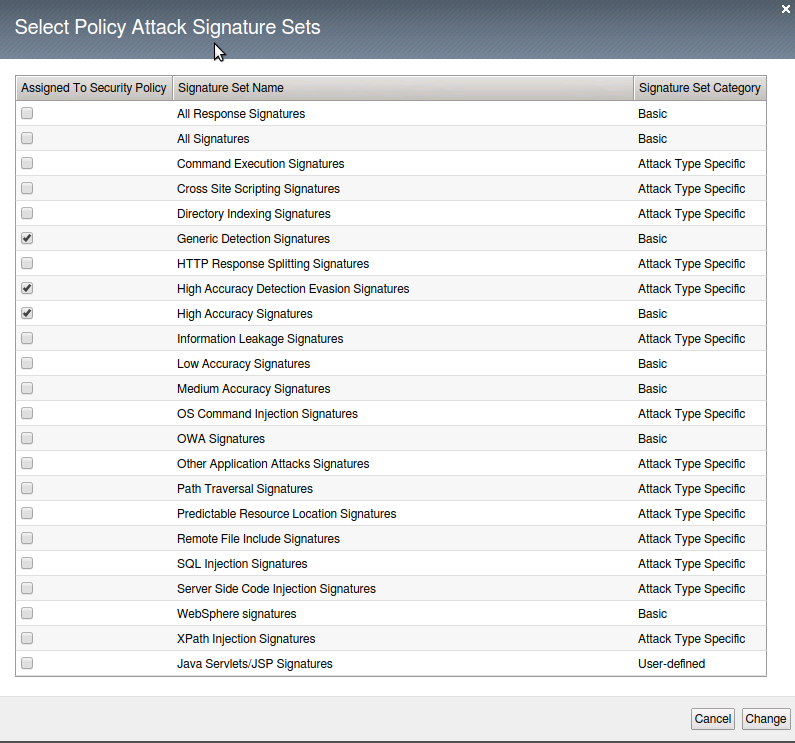
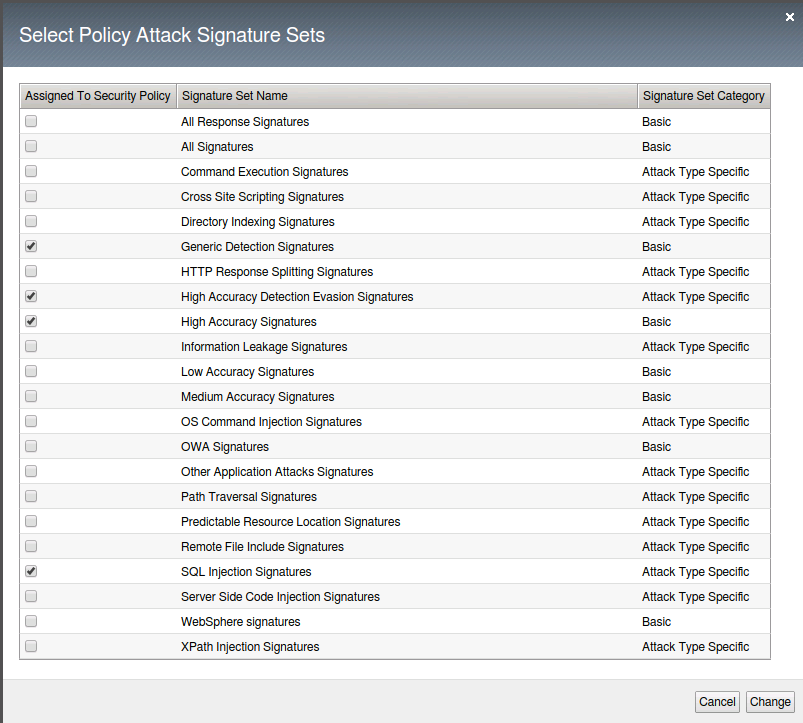
Edits

Changed region(s): [[0.0, 0.0, 1.0, 1.0]]

diff --git a/module3/lab1/lab1.rst b/module3/lab1/lab1.rst
@@ -6,30 +6,67 @@ Objective
 
 You will explore the blocking policy and settings.  The blocking policy used for this lab will focus on negative security using signatures.
 
-Task 1 - Exploring policy
+Task 1 - Creating Blocking policy
 ~~~~~~~~~~~~~~~~~~~~~~~~~~~~~~~~~~~~~~~~~~~~~~~~~~~~~
-1.  Within the BIG IP go to Security --> Application Security --> Policy Building --> Learning and Blocking Settings
+1.  Login to the BIG-IP device by clicking on the bookmark in Chrome.
 
-2.  Click on Blocking Settings...
+.. image:: /images/image13_3_1.png
+
+2.  Login to the BIG-IP with the credentials supplied
+
+3.  Go to Security --> Application Security --> Security Policies --> Policies List
+
+3.  Click on Create Policy
+
+.. image:: /images/image14_3_1.png
+
+4.  At the far right change the setting to Advanced
+
+.. image:: /images/image15_3_1.png
+
+Fill out the following:
+  Policy name:  Blocking_Policy
+  Description: leave blank
+  Policy type:  Security
+  Policy Template:  Rapid Deployment Policy
+  Virtual Server:  webgoat.f5demo.com_https_vs (HTTPS)
+  Learning Mode:  Manual
+  Enforcement Mode:  Blocking
+  Application Language:  Unicode (utf-8)
+  Server Technologies: (leave blank)
+  Signature Staging:  Disable  (in a production environment consider leaving this set at 7 days)
+  Policy is Case Sensitive:  Disabled
+  Differentiate between HTTP/WS and HTTPS/WSS URLs:  Enabled
+Click Create Policy
+
+5.  Go to Security --> Application Security --> Policy Building --> Learning and Blocking settings
+
+6.  Make sure Blocking_Policy is selected in the Current edited security policy.
+
+7.  At the far right across from General Settings ensure Advanced is selected
+
+.. image:: /images/image16_3_1.png
+
+8.  Click on Blocking Settings
 
 .. image:: images/image1_3_1.png
 
-3.  All the blocking and learning checkboxes are unchecked.  Alarming is still turned on for some critical functions. Close the window.
+9.  Click the Block Check box at the top of to select all then click it again to clear Block from all entries.  Then click Change
 
 .. image:: images/image2_3_1.png
 
-4.  Under Policy Building Settings click on the carrot next to Attack Signatures to expand the Attack Signatures options
+10.  Under Policy Building Settings click on the carrot next to Attack Signatures to expand the Attack Signatures options
 
 .. image:: images/image3_3_1.png
 
-5.  Click on the Change button at the far right to bring up the Select Policy Attack Signature sets and choose to add SQL Injection Signatures then click Change
+11.  Click on the Change button at the far right to bring up the Select Policy Attack Signature sets and choose to add High Accuracy signature and SQL Injection Signatures then click Change
 
 .. image:: images/image9_3_1.png
 .. image:: images/image10_3_1.png
 
 .. NOTE:: For this lab Signature Staging has been disbaled.  In a production environment you should consider using staging to allow yourself mitigation time before new signatures are implemented.
 
-6.  Ensure that the blocking checkbox has been unchecked for all signatures.  You will click Save and Apply Policy at this point.
+12.  Ensure that the blocking checkbox has been unchecked for all signatures.  You will click Save and Apply Policy at this point.
 
 .. image:: images/images11_3_1.png
 
@@ -39,14 +76,16 @@ Task 1 - Exploring policy
 
 Task 2 - Tuning policy
 ~~~~~~~~~~~~~~~~~~~~~~~~~~~~~~~~~~~~~~~~~~~~~~~~~~~~~
-1.  Under the General Settings you will see various settings for Enforcement, Learning Mode and Learning Speed.  For this lab the policy has been set in to Blocking with Manual Learning and a learning speed of fast.
+1.  Go to Security --> Application Security --> Policy Building --> Learning and Blocking Settings
+
+2.  Under the General Settings you will see various settings for Enforcement, Learning Mode and Learning Speed.  For this lab the policy has been set in to Blocking with Manual Learning and a learning speed of fast.
 
 .. image:: images/image4_3_1.png
 
 .. NOTE:: Depending on the setting you choose for Learning Mode you may find additional options
 .. image:: images/image5_3_1.png
 
-2.  Under Policy Building Process you will find there are settings for Loosen Policy and Tighten Policy.
+3.  Under Policy Building Process you will find there are settings for Loosen Policy and Tighten Policy.
 
 Loosen Policy would be used when there have been changes to the application.  Policy Builder will identify legitmate traffic based on repeated behavior from a sufficient number of sources that you set.
 Tighten Policy only applies when you are using automatic learning.  The policy builder will refine the policy until the number of security policy changes has been reached.
@@ -54,7 +93,7 @@ Track Site Changes again only applies to automatic learning.  If enabled this se
 
 .. image:: images/image6_3_1.png
 
-3.  When you have made changes to this page make sure to save the policy and then Apply policy
+4.  When you have made changes to this page make sure to save the policy and then Apply policy
 
 .. image:: images/image7_3_1.png
 .. image:: images/image8_3_1.png

diff --git a/module3/lab2/lab2.rst b/module3/lab2/lab2.rst
@@ -11,27 +11,38 @@ In this exercise you will attack the vulnerable application.  Then apply the blo
 Task 1 - Exploring an attack
 ~~~~~~~~~~~~~~~~~~~~~~~~~~~~~~~~~~~~~~~~~~~~~~~~~~~~~
 
-1.  Go to Local Traffic --> Virtual Servers --> Virtual Server List
+1.  Go to Security --> Event Logs --> Logging profiles
 
-2.  Click on the asm_vs
+2.  Click Create
+
+  Profile Name: WebGoat
+  Applicattion Security: Enabled
+  Storage Destination:  Local Storage
+  Request Type: All requests
+
+.. NOTE::  Do not use All requests unless for troubleshooting purposes.  Choose Illegal requests, and requests that include staged attack signatures
+
+3.  Go to Local Traffic --> Virtual Servers --> Virtual Server List
+
+4.  Click on the webgoat.f5demo.com_https_vs
 
 .. image:: images/image1_3_2.png
 
-3.  Click on Security and Policies from the top menu
+5.  Click on Security and Policies from the top menu
 
 .. image:: images/image2_3_2.png
 
-4.  Make sure to set Application Security Policy to enabled and choose the Blocking_Policy.
+6.  Make sure to set Application Security Policy to enabled and choose the Blocking_Policy.  Then enabled Log Profile and select the WebGoat profile you created.  Move it to Selected.  Click Update.
 
 .. image:: images/image3_3_2.png
 
-5.  Within Chrome click on the three dots in the upper right and choose New Incognito window
+7.  Within Chrome click on the three dots in the upper right and choose New Incognito window
 
 .. image:: images/image4_3_2.png
 
-6.  Click on the Login Page bookmark to get to the WebGoat application
+8.  Click on the Login Page bookmark to get to the WebGoat application
 
-7.  At the username prompt try entering a sequel query for the username and the letter a for the password
+9.  At the username prompt try entering a sequel query for the username and the letter a for the password
 
 ::
 
@@ -39,36 +50,25 @@ Task 1 - Exploring an attack
 
 .. NOTE:: Did you see anything?  Why do you think you were not blocked?
 
-8.  Login with the credentials webgoat and f5DEMOs4u!
+10.  Return to the BIG-IP Go to Security --> Event Logs --> Application --> requests
 
-9.  Click on Injection Flaws from the left menu and then on SQL Injection
+11.  You will find an entry there for the login page. (We will examine this further later)
 
-10.  Within the Account Name field try the injection attack again
-::
+12.  Go to Security --> Application Security --> Policy Building --> Learning and Blocking settings
 
-    %' or 1='1
-
-.. image:: images/image5_3_2.png
-
-.. NOTE:: You will see that you are able to access the database and gather a wealth of useful information
-
-.. image:: images/image6_3_2.png
-
-11.  Return to the BIG IP go to Security --> Application Security --> Policy Building --> Learning and Blocking settings
-
-12.  Click on the carrot next to Attack Signatures and click on the Block check box at the top (this will turn on blocking for all the signatures).  Make sure to click Save and Apply Policy
+13.  Click on the carrot next to Attack Signatures and click on the Block check box at the top (this will turn on blocking for all the signatures).  Make sure to click Save and Apply Policy
 
 .. image:: images/image7_3_2.png
 
-13.  On the left menu of the BIG IP right click on Security and select "Open Link in a new Tab"
+14.  On the left menu of the BIG-IP right click on Security and select "Open Link in a new Tab"
 
-14.  Go to the new tab.  Select Event Logs --> Application --> Requests
+15.  Go to the new tab.  Select Security --> Event Logs --> Application --> Requests
 
-15.  Open a New Incognito Window in Chrome
+16.  Open a New Incognito Window in Chrome
 
-16.  Click the bookmark for Login page
+17.  Click the bookmark for Login page
 
-17.  At the username prompt try entering a sequel query for the username and the letter a for the password
+18.  At the username prompt try entering a sequel query for the username and the letter a for the password
 
 ::
 
@@ -77,11 +77,9 @@ Task 1 - Exploring an attack
 .. NOTE:: You should see that you are blocked and received a message with a support ID.
 .. image:: images/image8_3_2.png
 
-18.  Use the back button and repeat steps 8-10
-
 .. NOTE:: Did the query work?  Why not?
 
-19.  Return to the BIG IP and the Event Logs tab
+19.  Return to the BIG-IP and the Event Logs tab
 
 20.  In the upper right corner change the auto refresh to 10 seconds
 
@@ -113,7 +111,7 @@ In the upper left corner change the mode to Attack mode and then execute the att
 
 .. image:: images/image12_3_2.png
 
-4.  Return to the BIG IP and examine the Event Logs.  You will need to stop the auto refresh by clicking on the countdown
+4.  Return to the BIG-IP and examine the Event Logs.  You will need to stop the auto refresh by clicking on the countdown
 
 .. image:: images/image13_3_2.png
 

diff --git a/module4/lab1/lab1.rst b/module4/lab1/lab1.rst
@@ -6,15 +6,19 @@ Task 1 - Exploring iControl
 
 The iControl REST API available via TMOS can be directly accessed and endpoints explored.
 
-#. Open Google Chrome and navigate to the following bookmarks: BIG-IP A GUI and BIG-IP API ToC.  Accept any SSL warnings/errors that appear and ensure that you can access both login prompts.
-#. Click on the **BIG-IP API ToC** bookmark to access the API Table of Contents for BIG-IP A.  The ``/mgmt/toc`` path in the URL is available on all TMOS versions 11.6 or newer.
-#. Authenticate using the default **admin/f5DEMOs4u!** credentials.
-#. After successfully authenticating, you will be presented with a top-level list of REST resources available on the BIG-IP.  At the top of the page is a search box that can be used to search for specific REST resources.
+1. Open Google Chrome and navigate to the following bookmarks: BIG-IP A GUI and BIG-IP API ToC.  Accept any SSL warnings/errors that appear and ensure that you can access both login prompts.
+
+2. Click on the **BIG-IP API ToC** bookmark to access the API Table of Contents for BIG-IP A.  The ``/mgmt/toc`` path in the URL is available on all TMOS versions 11.6 or newer.
+
+3. Authenticate using the default **admin/f5DEMOs4u!** credentials.
+
+4. After successfully authenticating, you will be presented with a top-level list of REST resources available on the BIG-IP.  At the top of the page is a search box that can be used to search for specific REST resources.
+
 
 Task 2 - Postman
 ~~~~~~~~~~~~~~~~~~~~~~~~~~~~~~~~~~~~~~~~~~~~~~~~~~~~~
 
-We will be using Postman collections to run API calls against our BIG IP.  Postman is an API development tool we use to create and test out API calls.
+We will be using Postman collections to run API calls against our BIG-IP.  Postman is an API development tool we use to create and test out API calls.
 
 1.  For this lab you can find the postman collection located here:
 

diff --git a/module4/lab4/lab4.rst b/module4/lab4/lab4.rst
@@ -1,10 +1,14 @@
-Excercise 4.7: HTTPS iApp with Policy
+Exercise 4.7: HTTPS iApp with Policy
 ----------------------------------------
 
 Overview
 ~~~~~~~~~~~~~~~~~~~~~~~~~~~~~~~~~~~~~~~~~~~~~~~~~~~~~
 
-F5 offers a number of templated installations for various applications.  For generic web based applications you can find the https iapp template.  As an update to this template we have added security functions such as firewall and web application firewall policies that can be deployed with the application.
+F5 offers a number of templated installations for various applications.  For generic web based applications you can find the https iapp template.  As an update to this template we have added security functions such as firewall and web application firewall policies that can be deployed with the application.  In this lab we will focus on using the basic http iApp template.  If you are interested in integrating similiar templates in to your automation and orchestration strategies please follow this training with the Application Services Lab located here:
+
+::
+
+  http://clouddocs.f5.com/products/extensions/f5-appsvcs-extension/3/
 
 
 Task 1 - Deploy iApp with Security
@@ -52,7 +56,7 @@ Task 1 - Deploy iApp with Security
 
 11.  You can try surfing around the application.  Try an injection attack.
 
-12.  Return to the BIG IP.  Go to Security --> Applicaiton Security --> Policy Building --> Traffic Learning
+12.  Return to the BIG-IP.  Go to Security --> Applicaiton Security --> Policy Building --> Traffic Learning
 
 Do you see learning suggestions?
 

diff --git a/module3/lab3/lab3.rst b/module3/lab3/lab3.rst
@@ -48,7 +48,7 @@ You should have received a reponse page that you customized.  Make note of the S
 Task 3 - Event logs
 -----------------------
 
-1.  On the BIG IP return to the Security --> Event Log --> Application --> requests
+1.  On the BIG-IP return to the Security --> Event Log --> Application --> requests
 
 2.  Click on the magnifying glass and that will open the log filter.  From here you can enter the Support ID you received from the preceeding task and select Apply Filter.
 
@@ -74,7 +74,7 @@ Observe the detected attack, the expected parameter, and what the applied blocki
 
 .. image:: images/image10_3_3.png
 
-6.  Close this tab and return to the BIG IP Event Logs.  Open the filter again and click on Not Blocked.  Apply Filter
+6.  Close this tab and return to the BIG-IP Event Logs.  Open the filter again and click on Not Blocked.  Apply Filter
 
 .. image:: images/image11_3_3.png
 
